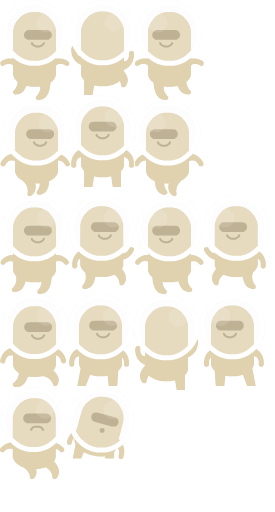
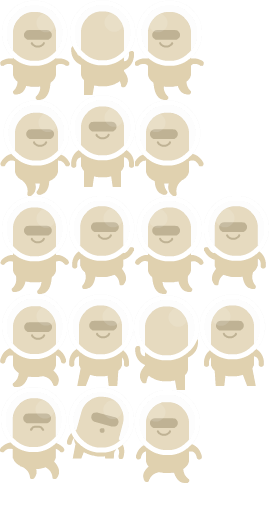
finish animating beekeeper

Changed region(s): [[0.4945, 0.7812, 0.7273, 0.9688]]

diff --git a/src/views/beekeeper_renderer.js b/src/views/beekeeper_renderer.js
@@ -9,7 +9,6 @@ BeekeeperRenderer = function () {
     var descriptor  = Textures.beekeeperDescriptor;
     var animator = Animator(spriteSheet, descriptor);
 
-
     var self = {
 
         render: function (canvas, options) {
@@ -20,7 +19,7 @@ BeekeeperRenderer = function () {
                 animator.animate(canvas, {
                     position: position,
                     sprites: ["walk1", "walk2", "walk3", "walk4"],
-                    ms: 1000
+                    ms: 800
                 });
             } else if (velocity.y == -2.0) {
                 animator.animate(canvas, {
@@ -28,7 +27,25 @@ BeekeeperRenderer = function () {
                     sprites: ["climb1", "climb2"],
                     ms: 300
                 });
-            } else {
+            } else if (velocity.x < -1.3){
+                animator.animate(canvas, {
+                    position: position,
+                    sprites: [
+                        "walk1mirror", "walk2mirror",
+                        "walk3mirror", "walk4mirror"
+                    ],
+                    ms: 800
+                });
+            } else if (velocity.y == 2.0) {
+                animator.animate(canvas, {
+                    position: position,
+                    sprites: [
+                        "standleft", "still",
+                        "standright", "still"
+                    ],
+                    ms: 800
+                });
+            }else {
                 canvas.drawImage(
                     spriteSheet, currentSprite.x, currentSprite.y,
                     currentSprite.width, currentSprite.height,

diff --git a/src/config/textures.js b/src/config/textures.js
@@ -12,22 +12,10 @@ module.exports = {
             "x": 70, "y": 95, "width": 65, "height": 92
         },
         "climb1": {
-            "x": 70, "y": 0, "width": 66, "height": 95
+            "x": 70, "y": 0, "width": 65, "height": 95
         },
         "climb2": {
-            "x": 134, "y": 295, "width": 66, "height": 95
-        },
-        "duck": {
-            "x": 67, "y": 387, "width": 67, "height": 72
-        },
-        "jump": {
-            "x": 69, "y": 196, "width": 66, "height": 93
-        },
-        "hurt": {
-            "x": 68, "y": 294, "width": 66, "height": 92
-        },
-        "swim2": {
-            "x": 60, "y": 0, "width": 70, "height": 100
+            "x": 134, "y": 295, "width": 65, "height": 95
         },
         "walk1": {
             "x": 0, "y": 294, "width": 68, "height": 93
@@ -42,9 +30,22 @@ module.exports = {
             "x": 0, "y": 0, "width": 68, "height": 96
         },
         "walk1mirror": {
-
+            "x": 134, "y": 390, "width": 68, "height": 96
         },
         "walk2mirror": {
+            "x": 134, "y": 196, "width": 69, "height": 98
+        },
+        "walk3mirror": {
+            "x": 135, "y": 100, "width": 68, "height": 96
+        },
+        "walk4mirror": {
+            "x": 135, "y": 0, "width": 68, "height": 96
+        },
+        "standleft": {
+            "x": 68, "y": 295, "width": 66, "height": 96
+        },
+        "standright": {
+            "x": 200, "y": 295, "width": 66, "height": 96
         }
     },
 

diff --git a/src/lib/animator.js b/src/lib/animator.js
@@ -9,13 +9,16 @@ var Animator = function (spriteSheet, descriptor) {
             var position = options.position;
             var sprites = options.sprites;
             var ms = options.ms;
+
             if (_currentTick >= ms / Config.frameRate) {
                 _currentTick = 0;
             }
+
             var totalTicks = ms / Config.frameRate;
             var ticksPerSprite = totalTicks / sprites.length;
             var currentSpriteIndex = Math.floor(_currentTick / ticksPerSprite);
             if (currentSpriteIndex > sprites.length) currentSpriteIndex -= 1;
+
             var currentSprite = descriptor[sprites[currentSpriteIndex]];
             canvas.drawImage(
                 spriteSheet, currentSprite.x, currentSprite.y,

diff --git a/src/models/entities/beekeeper.js b/src/models/entities/beekeeper.js
@@ -56,7 +56,6 @@ var Beekeeper = function (callback) {
             }
         },
         damage: function (amount) {
-            //this can be moved to entity
             if (!this._invincible) {
                 var that = this;
                 that._stats.currentHealth -= amount * (1);
